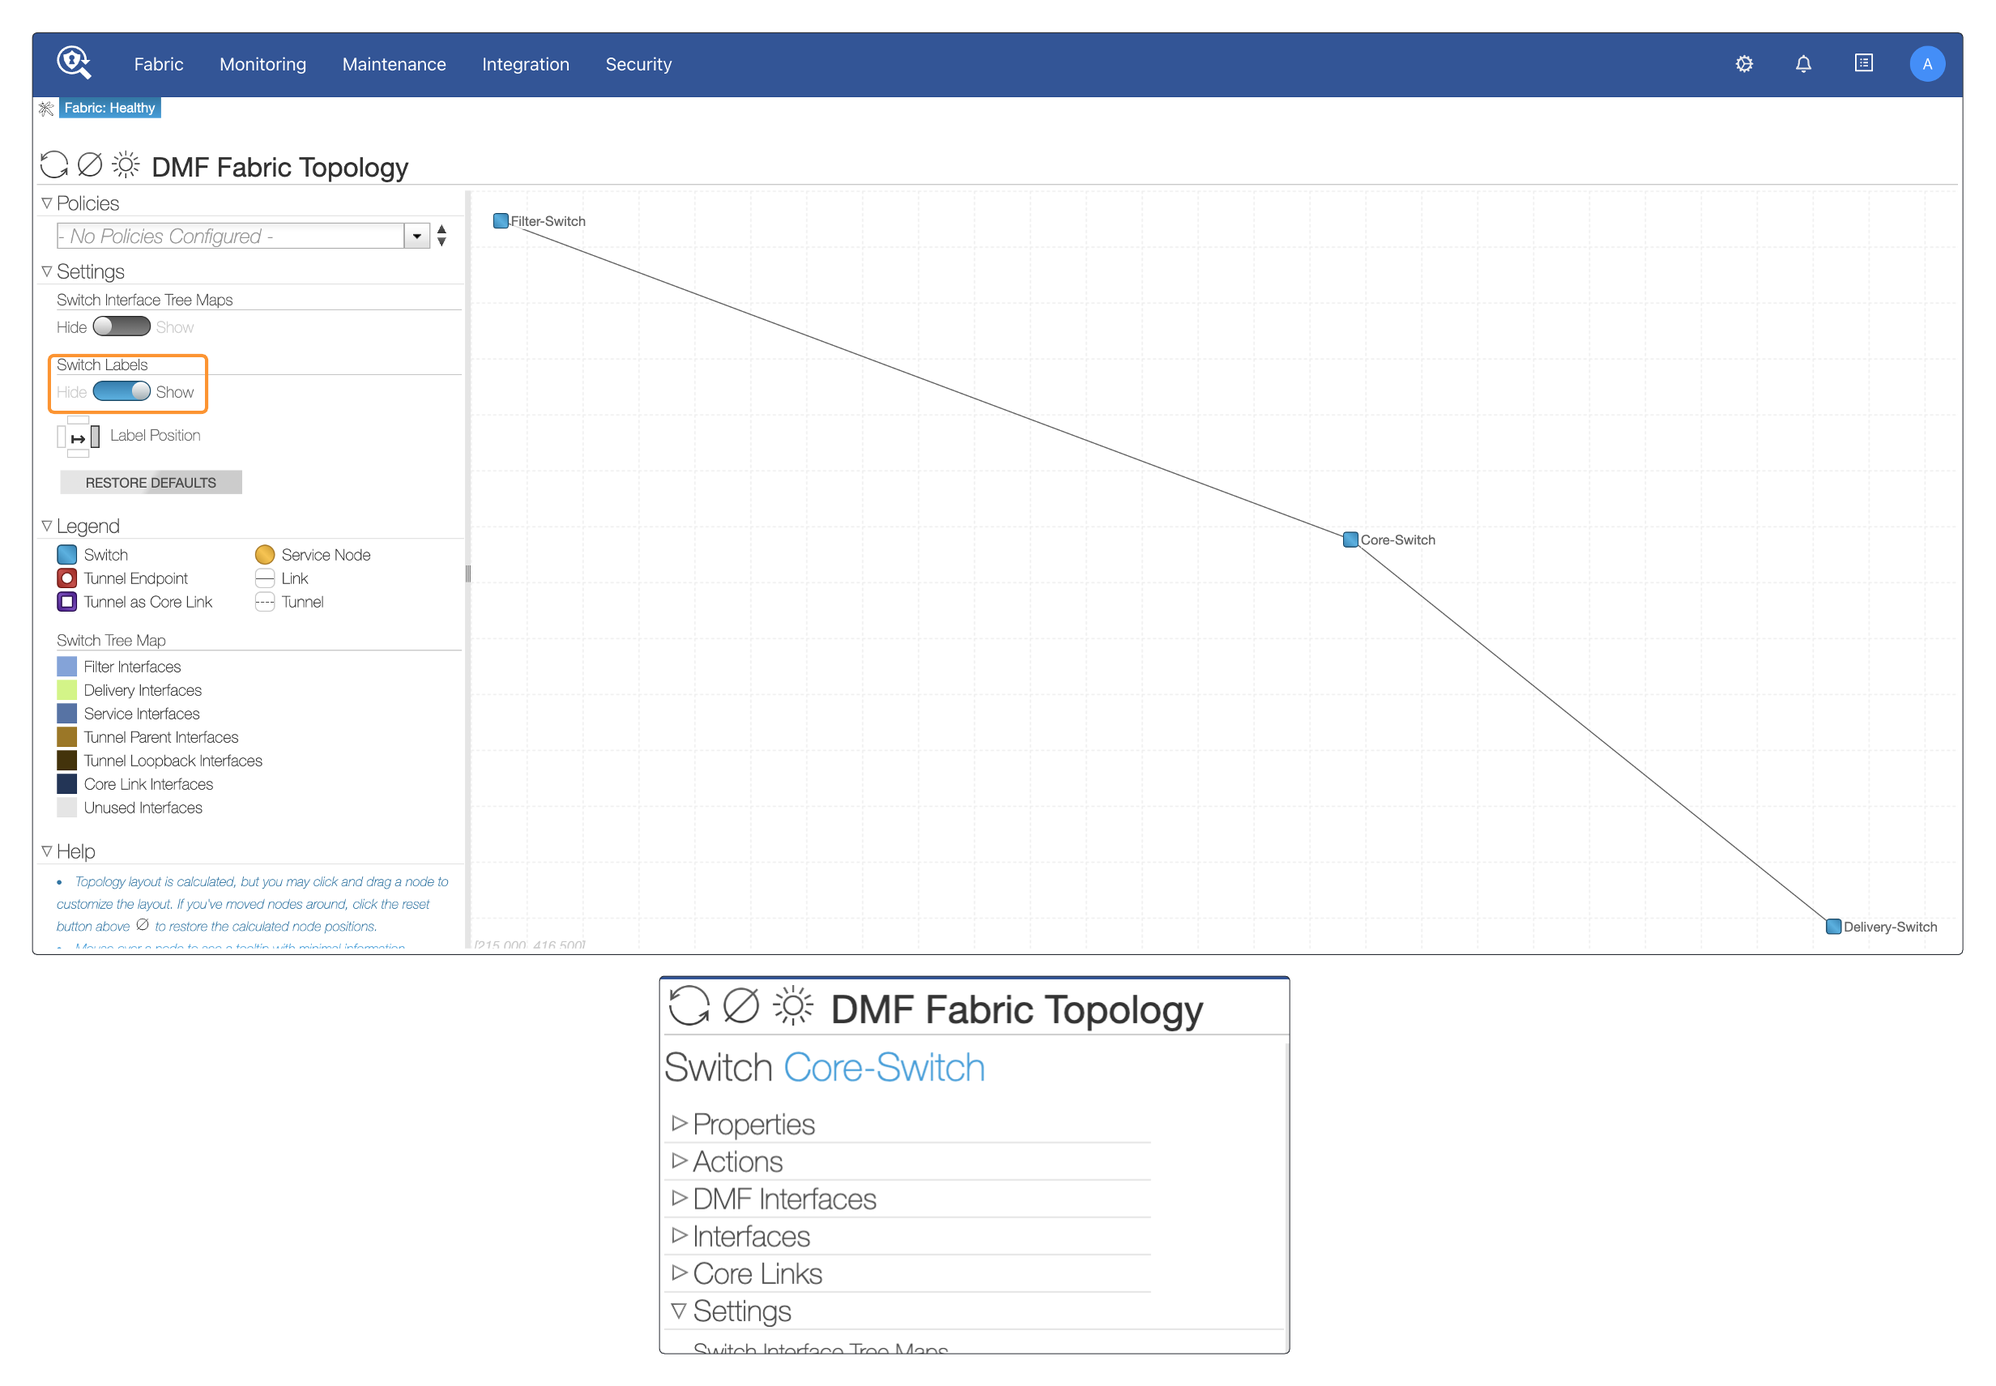
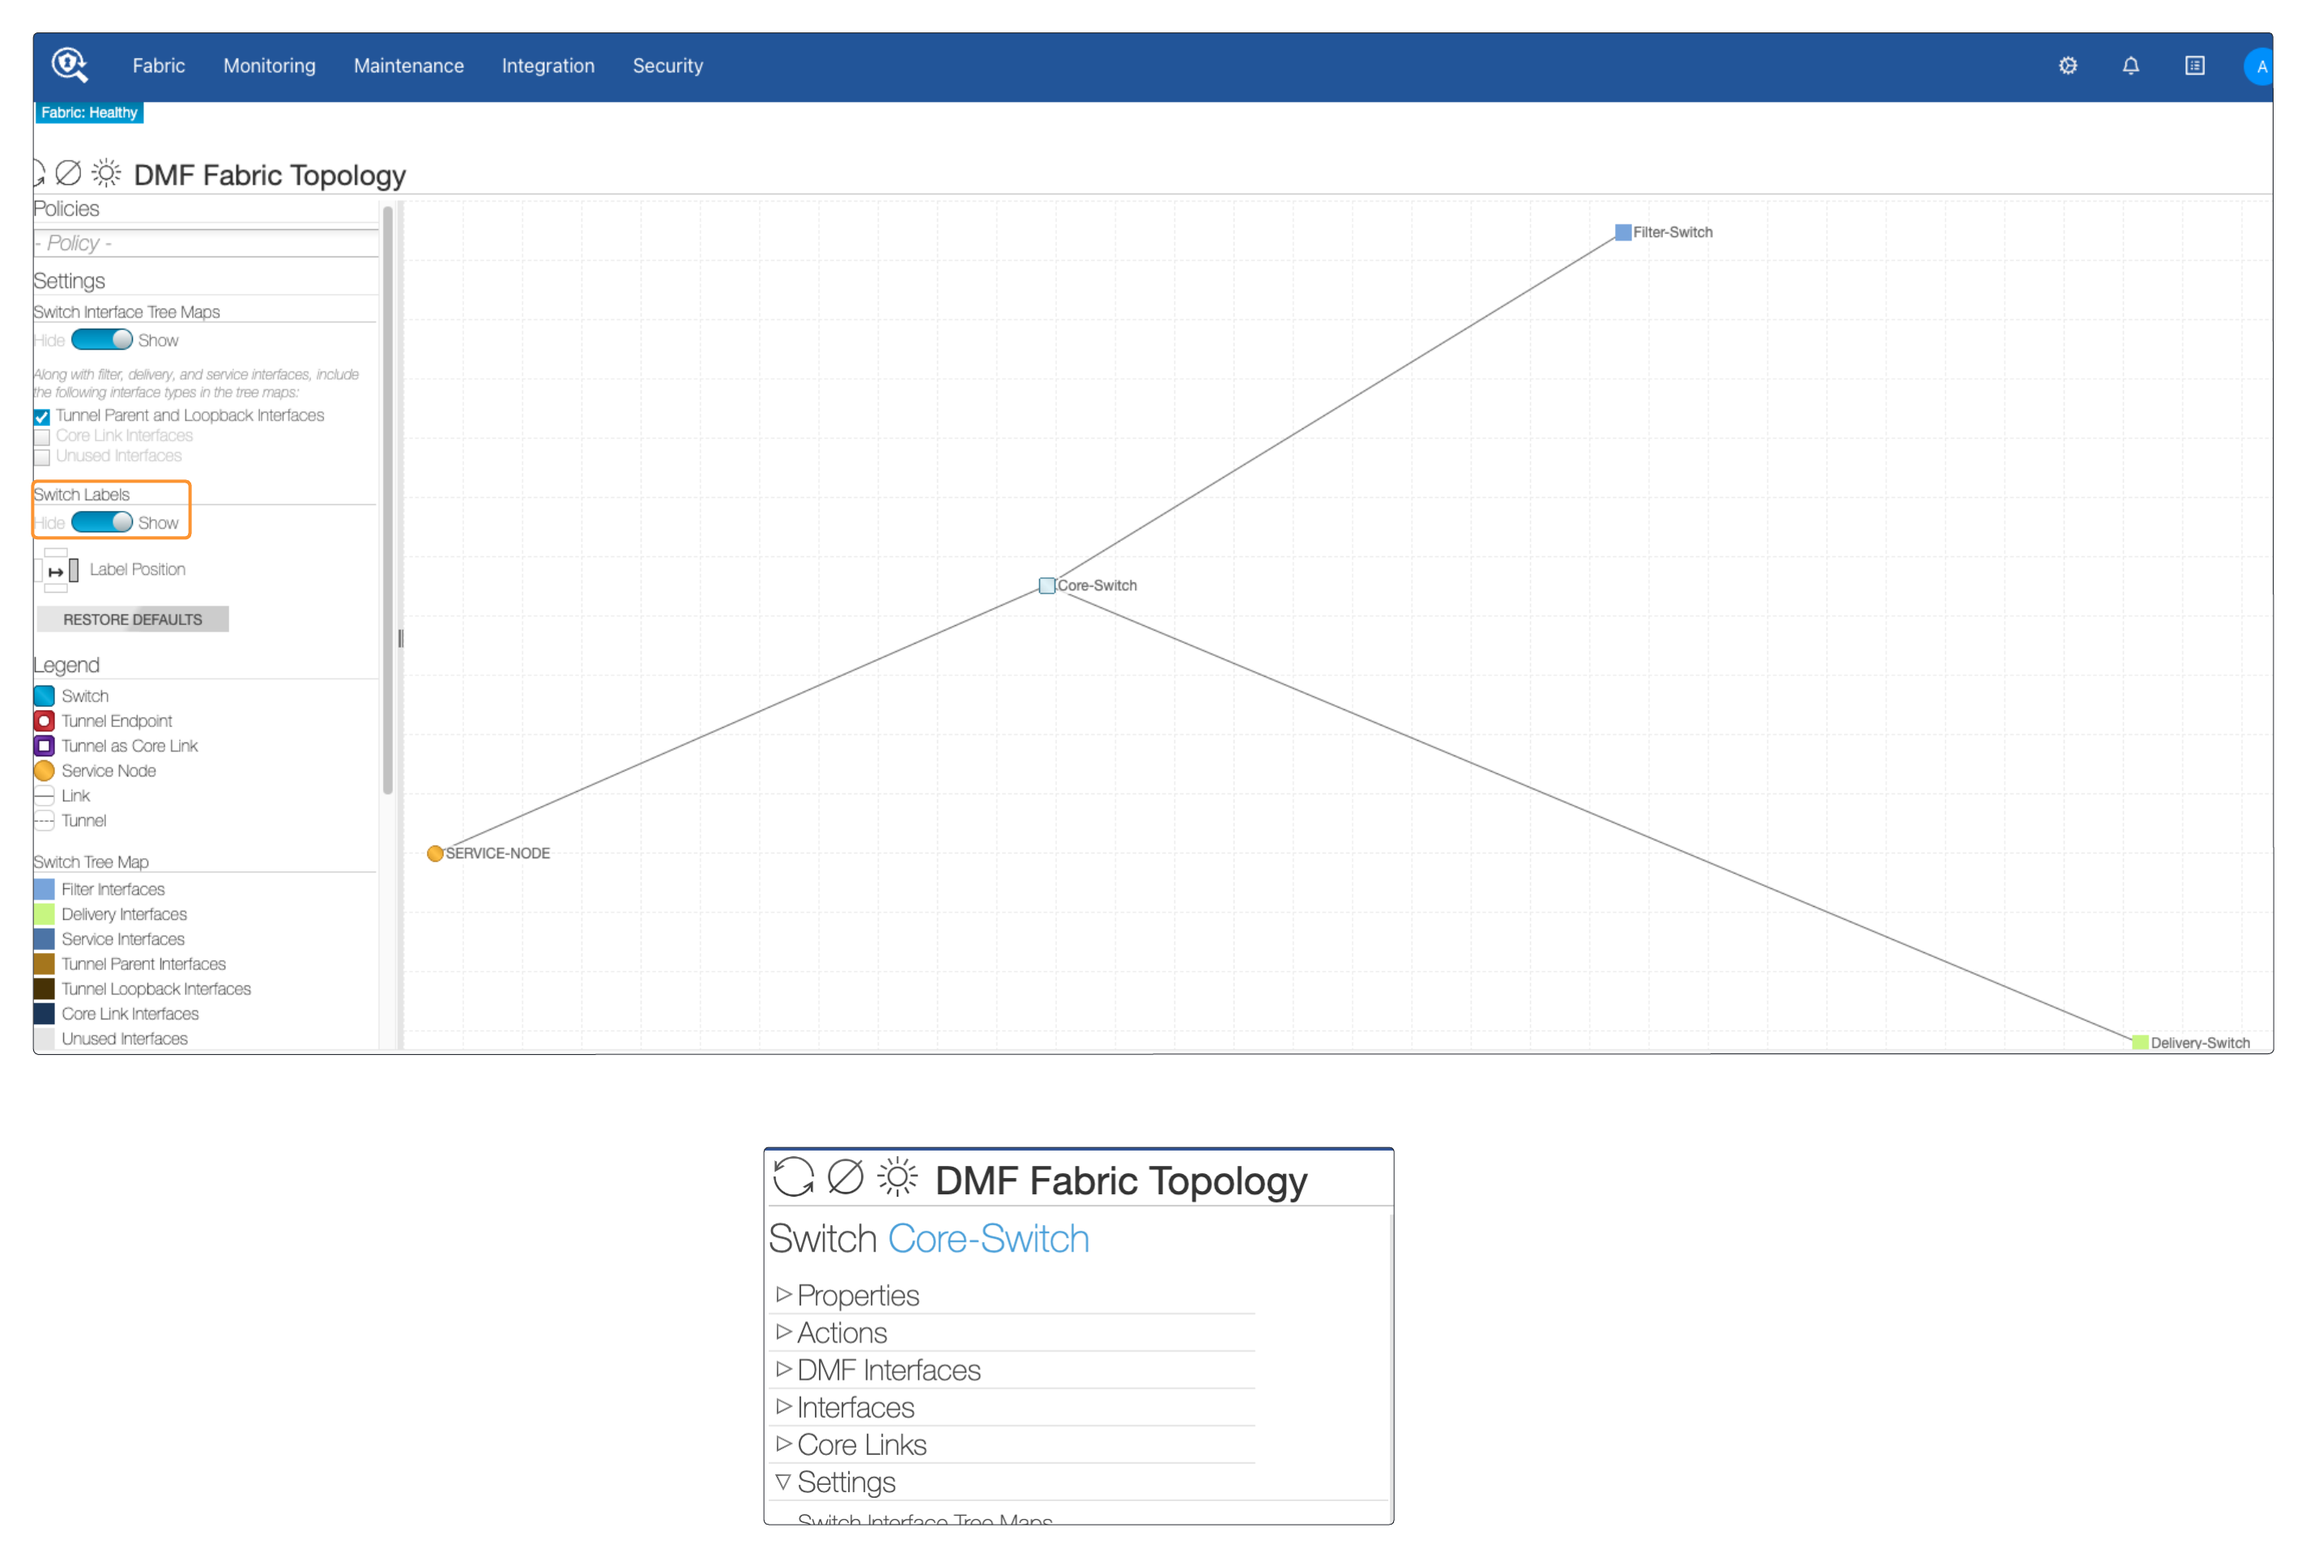
adding servicenode and recorder node provisioning to the beginnging

diff --git a/Lab1/Lab1.md b/Lab1/Lab1.md
@@ -83,6 +83,70 @@ Select any of the 3 switches displayed in the **Fabric Topology** to view additi
 
 ![da_fabric](media/da_fabric.png)
 
+## Add Service Node
+The Service Node provides the advanced packet analysis features to the DMF fabric. Before we are able demonstrate those advanced functions we need to add the Service Node to the DMF fabric.
+
+1. Navigate to **Fabric** > **Connected Devices**
+2. Annotate the **Chassis ID** of **serivce-node-850**
+3. Navigate to **Monitoring** > **Managed Services**
+4. Under **Devices** select the **+** to Add device
+5. Fill in the annotated information from step 1
+   - Name: **Service-Node**
+   - MAC Address: **42:01:0a:0a:0c:28**
+   - Select **Submit**
+
+![add_sn_1](media/add_sn_1.png)
+![add_sn_2](media/add_sn_2.png)
+
+## Verify Service Node 
+
+After configuring the Service Node verify that the DMF controller is able to communicate with the Service Node
+
+1. If the IP Address, Serial Number, Int Count, Interfaces are blank select the **Refresh Button**
+2. If the DMF controller is able to communicate with the Serivce Node that information should populate.
+
+![addsn_3](media/add_sn_3.png)
+
+## Add Recorder Node 
+Go to Monitoring > Packet Recorders
+
+![alt text](media/nav_pr.png)
+
+Under **Devices** Select the **+**
+
+![alt text](media/add_pr1.png)
+
+Fill in the below information:
+
+Name: **packet-recorder814** \
+MAC Address: **42:01:0a:0a:0c:28** \
+Packet Age: **300 Mins**
+
+Select ![alt text](media/save.png)
+
+![alt text](media/add_pr2.png)
+
+Back on the Packet Recorders Page you may see a Red X under Connected. Hit Refresh until you see a Green Check mark under connected.
+
+![alt text](media/add_pr3.png)
+
+## Add Packet Recorder Interface
+Remaining on the Packet Recorders Menu.
+
+Under Interfaces select the ***+**
+
+![alt text](media/add_pr_int1.png)
+
+Fill in with a interface information
+
+Name: **Recorder-Interface** \
+Switch **(Delivery)** \
+Interface: **ethernet3**
+
+Select ![alt text](media/save.png)
+
+
+![alt text](media/add_pr_int2.png)
 ## Assign Filter Role to Interfaces
 Now that we added the switches to the DMF controller, we now need to configure the interfaces on those switches and assign them a role.
 
